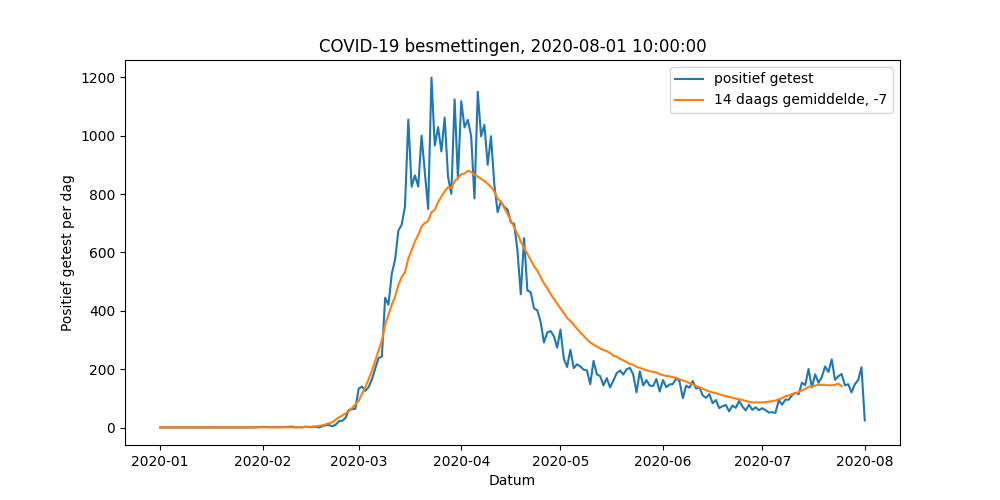
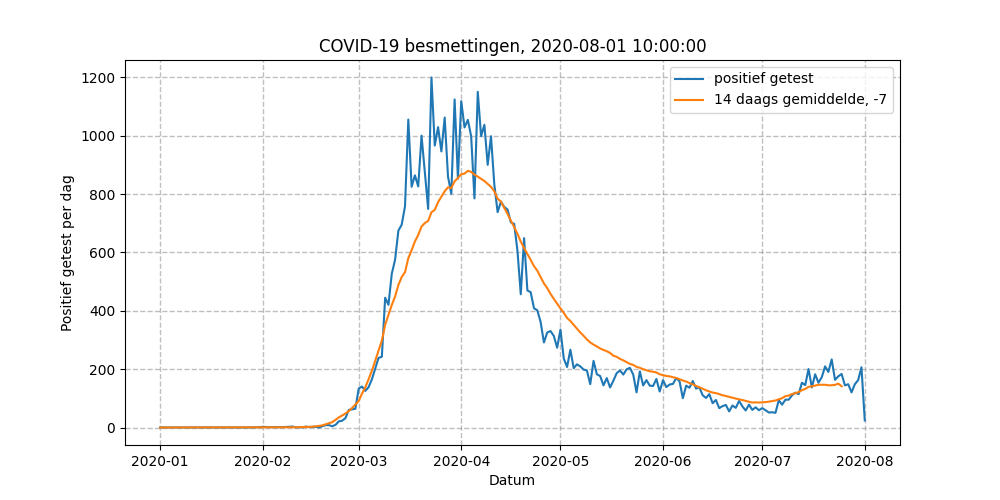
Ran getDailyExcelData

diff --git a/scripts/createGraph.py b/scripts/createGraph.py
@@ -27,15 +27,19 @@ avgsize = 14
 for datum in metenisweten:
     x.append(parser.parse(datum))
     y.append(metenisweten[datum]['positief'])
+
     avg = (avg * (avgsize-1) /avgsize) + (metenisweten[datum]['positief'] / avgsize)
     a.append(avg)
 
+
 plt.figure(figsize=(10,5))
+plt.grid(which='both', axis='both', linestyle='--', color='gray', linewidth=1, alpha=0.5)
 plt.plot(x,y,label='positief getest')
 
 ax = a[int(avgsize/2):]
 xx = x[:len(ax)]
 plt.plot(xx,ax,label=str(avgsize)+' daags gemiddelde, -'+str(int(avgsize/2)))
+
 plt.xlabel("Datum")
 plt.ylabel("Positief getest per dag")
 plt.title('COVID-19 besmettingen, '+filedate)
